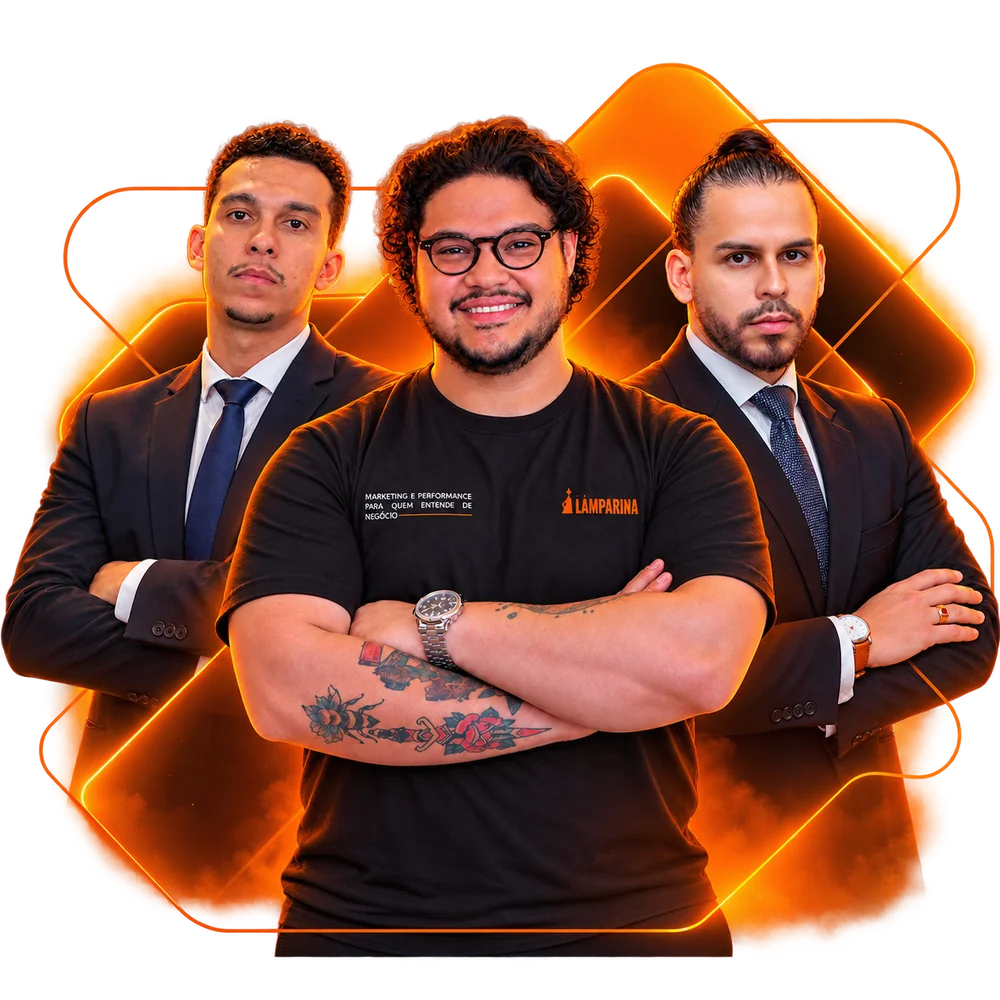
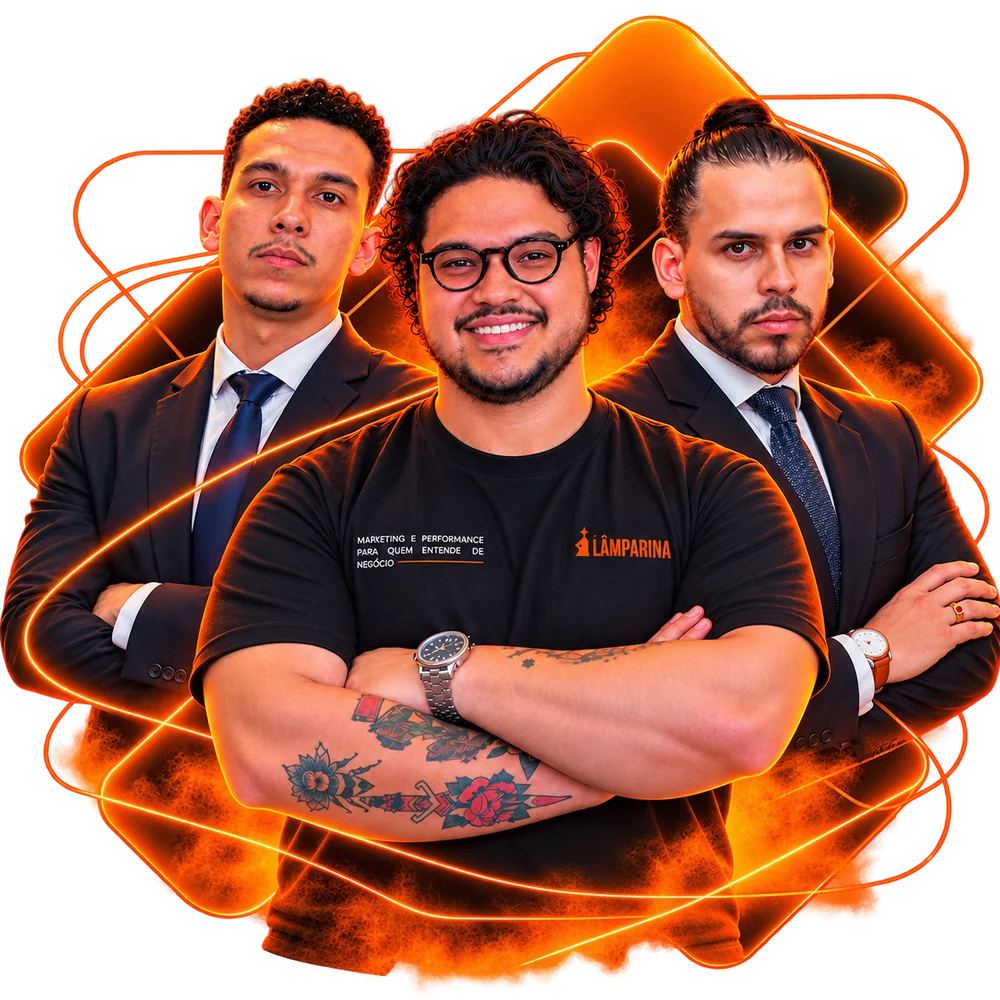
fix: nova foto da hero, centralizada e mais alta

diff --git a/index.html b/index.html
@@ -55,9 +55,9 @@
         <button type="button" onclick="{{ scrollToForm }}" style="margin-top:32px;display:inline-flex;align-items:center;justify-content:center;padding:18px 36px;min-height:56px;border-radius:12px;background:linear-gradient(135deg,#FF6A00,#FF9152);color:#fff;font-family:'Host Grotesk',sans-serif;font-weight:700;font-size:16px;letter-spacing:.03em;text-transform:uppercase;border:none;cursor:pointer;box-shadow:0 10px 30px rgba(255,106,0,.35);transition:transform .25s cubic-bezier(.22,1,.36,1), box-shadow .25s" style-hover="transform:translateY(-2px);box-shadow:0 14px 42px rgba(255,106,0,.5)" style-focus="outline:2px solid #FF9152;outline-offset:3px">Quero participar</button>
         <p style="margin-top:16px;font-family:'DM Sans',sans-serif;color:#9a9a9a;font-size:13px;max-width:46ch;line-height:1.6">Ao se inscrever, você entra no grupo de WhatsApp do Advocacia de Sucesso e recebe lá os avisos e o acesso.</p>
       </div>
-      <div style="flex:1 1 360px;min-width:280px;display:flex;justify-content:center">
+      <div style="flex:1 1 360px;min-width:280px;display:flex;justify-content:center;align-items:center">
         <div style="position:relative;width:100%;max-width:560px;{{ heroImageRevealStyle }}" data-reveal="1">
-          <img src="./assets/hero-palestrantes.webp" alt="Dr. Simão Rebelo, Jhon Gomes e Dr. Odilon Caetano Jr." width="1000" height="1000" style="display:block;width:100%;height:auto">
+          <img src="./assets/hero-palestrantes.webp" alt="Dr. Simão Rebelo, Jhon Gomes e Dr. Odilon Caetano Jr." width="1000" height="1000" style="display:block;width:100%;height:auto;margin:-48px auto 0">
         </div>
       </div>
     </div>
